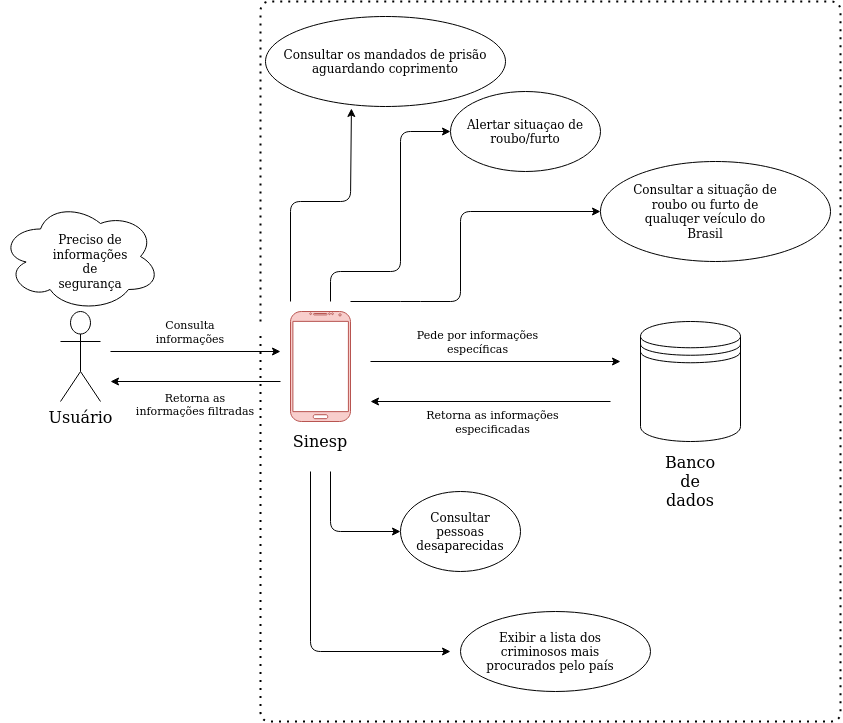
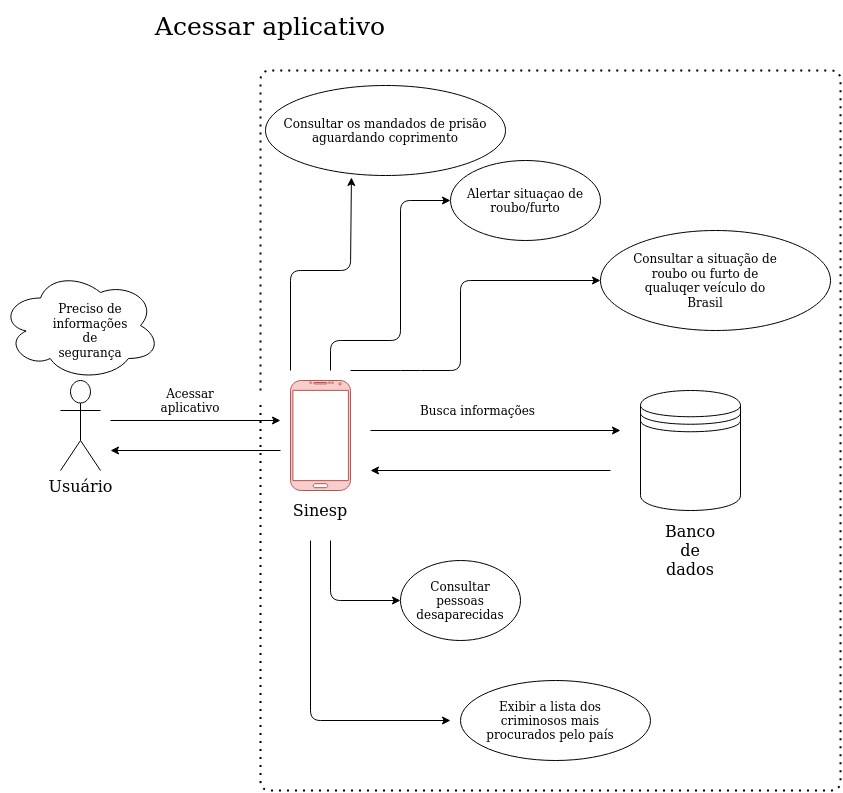
atualiza os rich pictures

diff --git a/docs/Pre-traceability/pre-traceability.md b/docs/Pre-traceability/pre-traceability.md
@@ -25,6 +25,10 @@ O Rich Picture é uma modelagem cuja notação permite analisar problemas e expr
 
 ![RP Visão Geral Digital](Images/../../Images/richpictures/rp-geral-digital.png)
 
+## RP03 Visão Geral - 2.0
+
+![RP Visão Geral Digital](Images/../../Images/richpictures/rp-geral-final.png)
+
 ## Referências
 
 [SERRANO, Maurício; SERRANO, Milene; Requisitos – Aula 04](https://aprender3.unb.br/pluginfile.php/501252/mod_resource/content/3/Requisitos%20-%20Aula%2004%20-%20Parte%202%20RichPicture.pdf)
@@ -34,3 +38,4 @@ Data | Versão | Descrição | Autor
 ------ | --------- | ---------- | --------
 07/09/2020 | 1.0 | Criação dos Rich Pictures | Paulo
 06/11/2020 | 1.1 | Criação da página e da Introdução, Adição da Referência e do Versionamento | Fellipe
+25/11/2020 | 1.3 | Atualização dos Rich Pictures | Paulo
